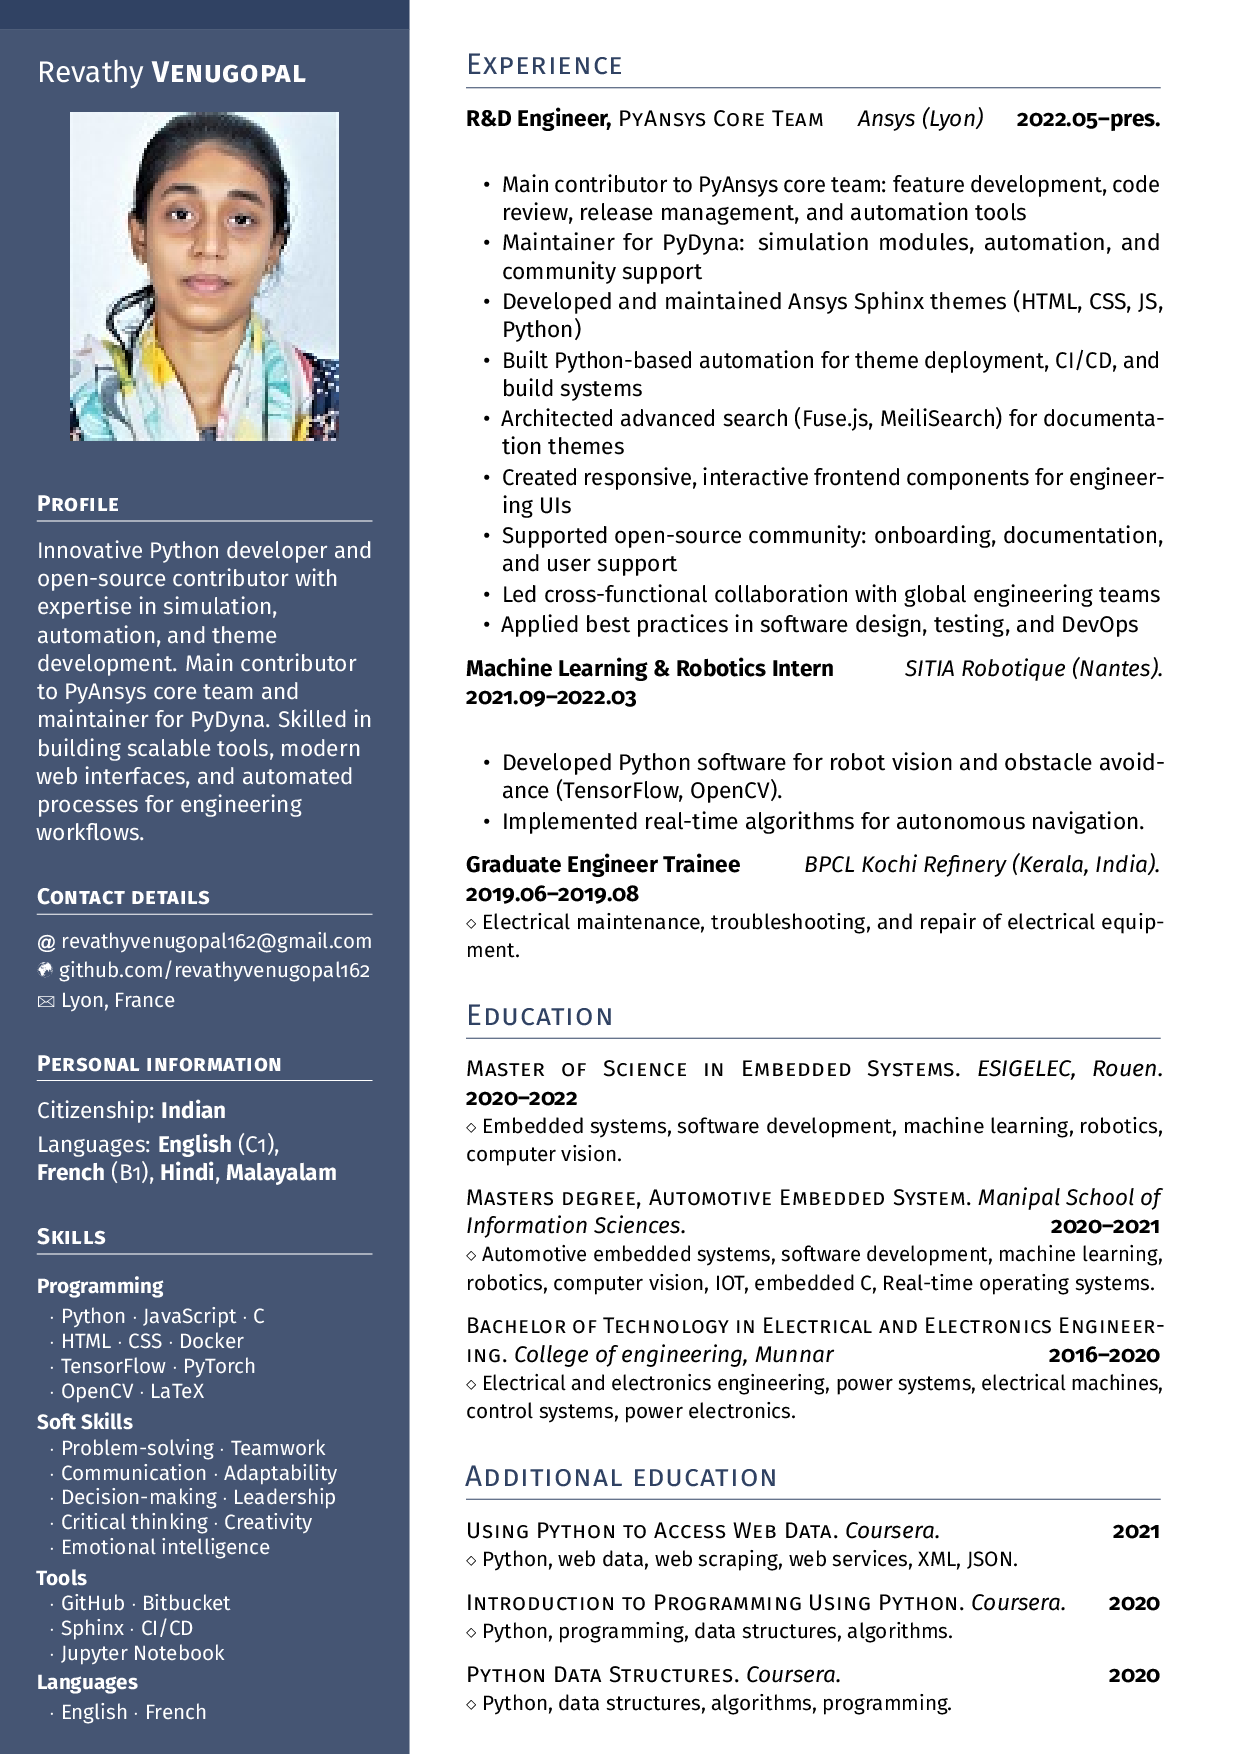
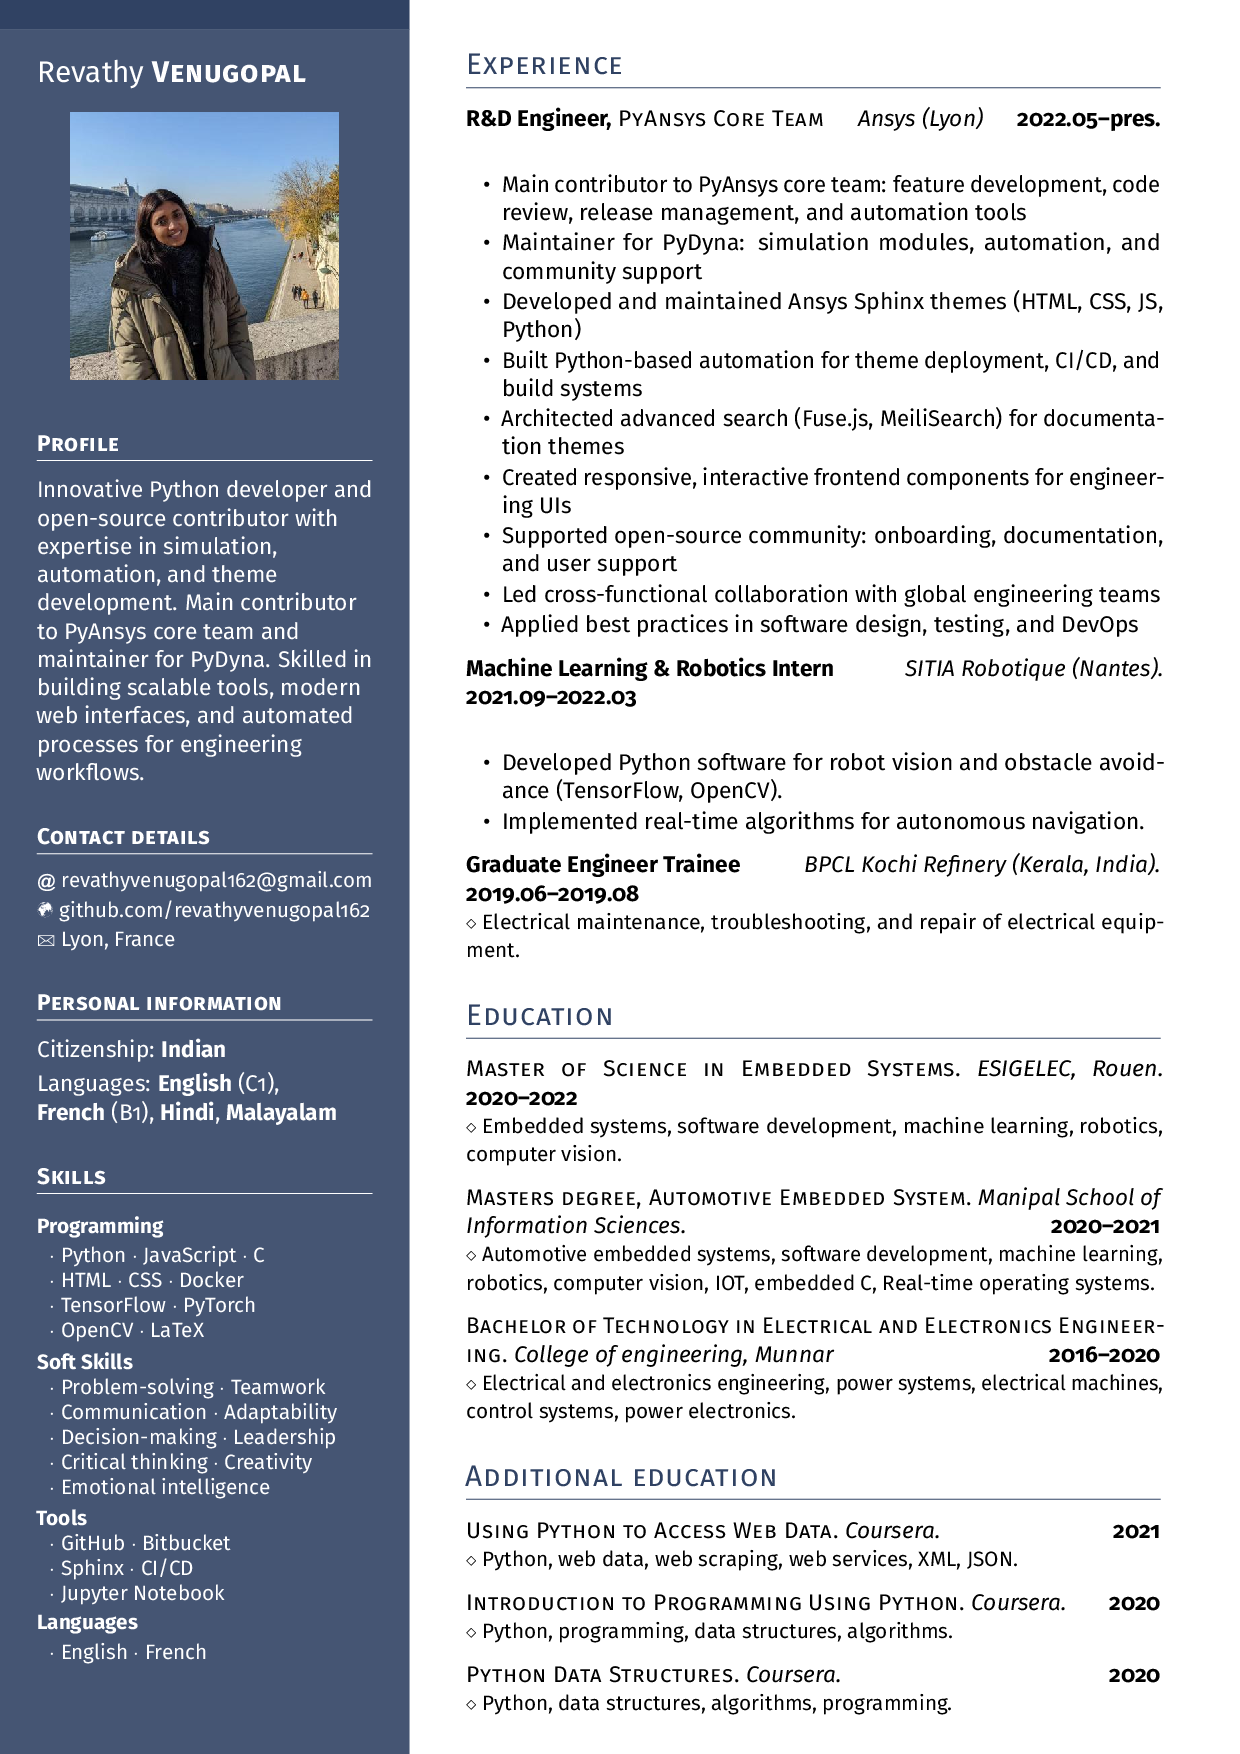
Deploying to main from @ Revathyvenugopal162/my-website@4ff363b95f05d866f5065703aa99b9f08cf2b9c5 🚀

Changed region(s): [[0.0306, 0.0616, 0.3065, 0.9852]]

diff --git a/index.html b/index.html
@@ -660,8 +660,6 @@ ul.task-list li input[type="checkbox"] {
 </section>
 </main></div>
     </div>
-    <img src="assets/revathy.jpg" class="about-image
-  rounded " style="width: 15em;">
   </div>
 </div>
  <!-- /main -->
